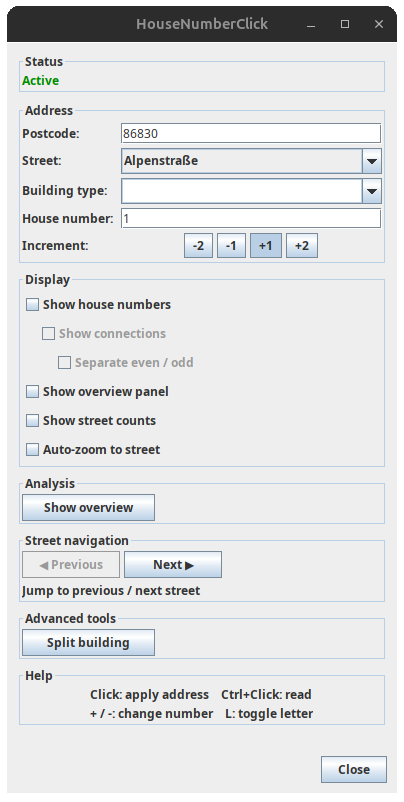
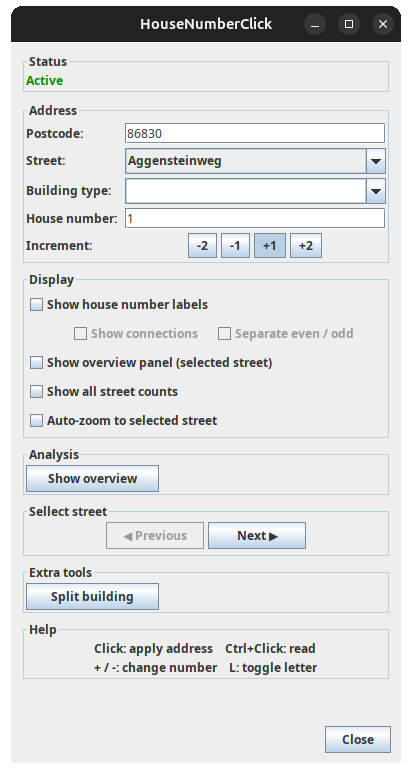
ui/i18n: update dialog labels, screenshot, and pot file list

diff --git a/src/org/openstreetmap/josm/plugins/housenumberclick/StreetSelectionDialog.java b/src/org/openstreetmap/josm/plugins/housenumberclick/StreetSelectionDialog.java
@@ -85,7 +85,7 @@ final class StreetSelectionDialog {
     private boolean streetNavigationDispatcherRegistered;
 
     private static final int DIALOG_WIDTH = 390;
-    private static final int DIALOG_HEIGHT = 750;
+    private static final int DIALOG_HEIGHT = 720;
     private static final int DIALOG_OFFSET_X = 66;
     private static final int DIALOG_OFFSET_Y = 80;
     private static final String SHOW_OVERVIEW_BUTTON_TEXT = I18n.tr("Show overview");
@@ -171,12 +171,12 @@ final class StreetSelectionDialog {
         this.streetModeController.setModeStateListener(this::refreshModeStateUi);
         this.modeStateLabel.setFont(this.modeStateLabel.getFont().deriveFont(Font.BOLD));
 
-        this.showHouseNumberLayerCheckbox = new JCheckBox(I18n.tr("Show house numbers"));
+        this.showHouseNumberLayerCheckbox = new JCheckBox(I18n.tr("Show house number labels"));
         this.showConnectionLinesCheckbox = new JCheckBox(I18n.tr("Show connections"));
         this.showSeparateEvenOddConnectionLinesCheckbox = new JCheckBox(I18n.tr("Separate even / odd"));
-        this.showHouseNumberOverviewCheckbox = new JCheckBox(I18n.tr("Show overview panel"));
-        this.showStreetHouseNumberCountsCheckbox = new JCheckBox(I18n.tr("Show street counts"));
-        this.zoomToSelectedStreetCheckbox = new JCheckBox(I18n.tr("Auto-zoom to street"));
+        this.showHouseNumberOverviewCheckbox = new JCheckBox(I18n.tr("Show overview panel (selected street)"));
+        this.showStreetHouseNumberCountsCheckbox = new JCheckBox(I18n.tr("Show all street counts"));
+        this.zoomToSelectedStreetCheckbox = new JCheckBox(I18n.tr("Auto-zoom to selected street"));
         this.showHouseNumberLayerCheckbox.addActionListener(e -> onOverlayLayerSelectionChanged());
         this.showConnectionLinesCheckbox.addActionListener(e -> onConnectionLinesSelectionChanged());
         this.showSeparateEvenOddConnectionLinesCheckbox.addActionListener(e -> onSeparateEvenOddConnectionLinesSelectionChanged());
@@ -735,6 +735,18 @@ final class StreetSelectionDialog {
         JPanel panel = new JPanel(new GridBagLayout());
         panel.setBorder(BorderFactory.createTitledBorder(I18n.tr("Display")));
 
+        JPanel houseNumberSubOptionsPanel = new JPanel(new GridBagLayout());
+        GridBagConstraints subGbc = new GridBagConstraints();
+        subGbc.gridx = 0;
+        subGbc.gridy = 0;
+        subGbc.anchor = GridBagConstraints.WEST;
+        subGbc.insets = new Insets(0, 0, 0, 12);
+        houseNumberSubOptionsPanel.add(showConnectionLinesCheckbox, subGbc);
+
+        subGbc.gridx = 1;
+        subGbc.insets = new Insets(0, 0, 0, 0);
+        houseNumberSubOptionsPanel.add(showSeparateEvenOddConnectionLinesCheckbox, subGbc);
+
         GridBagConstraints gbc = new GridBagConstraints();
         gbc.gridx = 0;
         gbc.anchor = GridBagConstraints.WEST;
@@ -747,21 +759,17 @@ final class StreetSelectionDialog {
 
         gbc.gridy = 1;
         gbc.insets = new Insets(2, 16, 2, 0);
-        panel.add(showConnectionLinesCheckbox, gbc);
+        panel.add(houseNumberSubOptionsPanel, gbc);
 
         gbc.gridy = 2;
-        gbc.insets = new Insets(2, 32, 2, 0);
-        panel.add(showSeparateEvenOddConnectionLinesCheckbox, gbc);
-
-        gbc.gridy = 3;
         gbc.insets = new Insets(2, 0, 2, 0);
         panel.add(showHouseNumberOverviewCheckbox, gbc);
 
-        gbc.gridy = 4;
+        gbc.gridy = 3;
         gbc.insets = new Insets(2, 0, 2, 0);
         panel.add(showStreetHouseNumberCountsCheckbox, gbc);
 
-        gbc.gridy = 5;
+        gbc.gridy = 4;
         gbc.insets = new Insets(2, 0, 2, 0);
         panel.add(zoomToSelectedStreetCheckbox, gbc);
 
@@ -777,7 +785,7 @@ final class StreetSelectionDialog {
 
     private JPanel createStreetNavigationSection() {
         JPanel panel = new JPanel(new GridBagLayout());
-        panel.setBorder(BorderFactory.createTitledBorder(I18n.tr("Street navigation")));
+        panel.setBorder(BorderFactory.createTitledBorder(I18n.tr("Sellect street")));
 
         harmonizeNavigationButtonWidths();
 
@@ -792,20 +800,13 @@ final class StreetSelectionDialog {
         gbc.insets = new Insets(0, 0, 4, 0);
         panel.add(nextStreetButton, gbc);
 
-        gbc.gridx = 0;
-        gbc.gridy = 1;
-        gbc.gridwidth = 2;
-        gbc.weightx = 1.0;
-        gbc.fill = GridBagConstraints.HORIZONTAL;
-        gbc.insets = new Insets(0, 0, 0, 0);
-        panel.add(new JLabel(I18n.tr("Jump to previous / next street")), gbc);
 
         return panel;
     }
 
     private JPanel createAdvancedToolsSection(JPanel buildingSplitterPanel) {
         JPanel panel = new JPanel(new BorderLayout());
-        panel.setBorder(BorderFactory.createTitledBorder(I18n.tr("Advanced tools")));
+        panel.setBorder(BorderFactory.createTitledBorder(I18n.tr("Extra tools")));
         panel.add(buildingSplitterPanel, BorderLayout.CENTER);
         return panel;
     }
